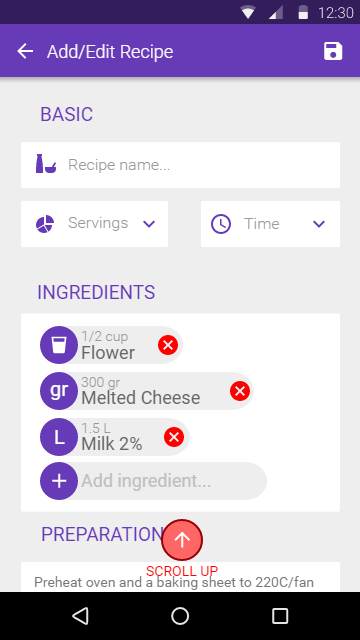
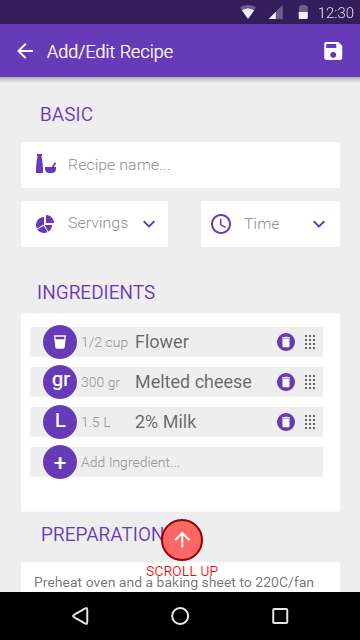
Updated some screens of Chef Buddy

Changed region(s): [[0.0917, 0.5, 0.7028, 0.7812], [0.7639, 0.5, 0.825, 0.6875]]

diff --git a/index.html b/index.html
@@ -1,2 +1,2 @@
 <html xmlns="http://www.w3.org/1999/xhtml" xmlns:p="http://www.evolus.vn/Namespace/Pencil" xmlns:html="http://www.w3.org/1999/xhtml"><head><meta http-equiv="Content-Type" content="text/html; charset=UTF-8" />
-<title>ChefBuddy v3</title><script type="text/javascript" src="Resources/Script.js"></script><link rel="stylesheet" type="text/css" href="Resources/Style.css" /><meta name="viewport" content="width=device-width, initial-scale=1, user-scalable=no, maximum-scale=1.0" /></head><body><div style="display: none;" id="page"><div id="content"><h1 id="documentTitle"><span>ChefBuddy v3</span></h1><div class="Page" id="home_recipes_page"><div class="Texts"><h2 class="Title">Home: Recipes</h2><p class="Note"></p><div>Home view. <br /><br />This page displays a list of recipes.</div><p></p></div><div class="Image"><img src="pages\home_recipes.png" width="360" height="641" usemap="#map_home_recipes" id="home_recipes_page_image" /><div class="ImageFooter"> </div><map name="map_home_recipes"><area shape="rect" coords="294.60009765625,523.6000366210938,350.60009765625,579.600036621094" href="#editadd_recipe_page" title="Go to page 'Edit/Add Recipe'" /><area shape="rect" coords="294,38,318,62" href="#home_recipes_search_page" title="Go to page 'Home: Recipes: Search'" /><area shape="rect" coords="328,38,352,62" href="#home_menu_page" title="Go to page 'Home: Menu'" /><area shape="rect" coords="0,80,360,128" href="#home_spin_wheel_page" title="Go to page 'Home: Spin wheel'" /><area shape="rect" coords="6,139,352.279998779297,352.919982910156" href="#recipe_detail_page" title="Go to page 'Recipe Detail'" /></map></div></div><div class="Page" id="home_recipes_search_page"><div class="Texts"><h2 class="Title">Home: Recipes: Search</h2><p class="Note"></p><div><div>Search page:<br /><br />A white ripple spawns from the center of where the search icon used to be, covering the Toolbar. The TabView dissapears. The app logo changes to a back arrow, "Search..." hint appears.</div><div>Keyboard is displayed. Snackbar/Toast appears saying: "Search by recipe name or ingredients"</div> </div><p></p></div><div class="Image"><img src="pages\home_recipes_search.png" width="360" height="640" usemap="#map_home_recipes_search" id="home_recipes_search_page_image" /><div class="ImageFooter"> </div><map name="map_home_recipes_search"><area shape="rect" coords="8,39,32,63" href="#home_recipes_page" title="Go to page 'Home: Recipes'" /></map></div></div><div class="Page" id="recipe_detail_page"><div class="Texts"><h2 class="Title">Recipe Detail</h2><p class="Note"></p><div> <div>Recipe detail page.<br /><br />Slides in from below, obscuring background, can be fully scrolled up.</div><div><br /><br /></div><div>Share button generates a pdf file, shareable through Whatsapp, Email.<br /><br /></div><div><br /><br /></div><div><div>Check Button hint: <span style="font-size: 9pt;">"Cooked this today". When clicked, records the recipe as it has been cooked the current day, also icon changes to an X.</span></div></div></div><p></p></div><div class="Image"><img src="pages\recipe_detail.png" width="360" height="640" usemap="#map_recipe_detail" id="recipe_detail_page_image" /><div class="ImageFooter"> </div><map name="map_recipe_detail"><area shape="rect" coords="166,526,206,566" href="#recipe_detail_2_page" title="Go to page 'Recipe Detail 2'" /><area shape="rect" coords="0,592,360,640" href="#home_recipes_page" title="Go to page 'Home: Recipes'" /><area shape="rect" coords="326,193,350,217" href="#recipe_detail_menu_page" title="Go to page 'Recipe Detail: Menu'" /><area shape="rect" coords="0,0.3052825927734375,360,172.937286376953" href="#home_recipes_page" title="Go to page 'Home: Recipes'" /></map></div></div><div class="Page" id="recipe_detail_2_page"><div class="Texts"><h2 class="Title">Recipe Detail 2</h2><p class="Note"></p><div> <div>Recipe detail page.<br /><br />Slides in from below, obscuring background, can be fully scrolled up.</div><div><br /><br /></div><div>Share button generates a pdf file, shareable through Whatsapp, Email.<br /><br /></div><div><br /><br /></div><div><div>Check Button hint: <span style="font-size: 9pt;">"Cooked this today". When clicked, records the recipe as it has been cooked the current day, also icon changes to an X.</span></div></div></div><p></p></div><div class="Image"><img src="pages\recipe_detail_2.png" width="360" height="640" usemap="#map_recipe_detail_2" id="recipe_detail_2_page_image" /><div class="ImageFooter"> </div><map name="map_recipe_detail_2"><area shape="rect" coords="171,214,211,254" href="#recipe_detail_page" title="Go to page 'Recipe Detail'" /><area shape="rect" coords="0,592,360,640" href="#recipe_detail_page" title="Go to page 'Recipe Detail'" /><area shape="rect" coords="326,44,350,68" href="#recipe_detail_menu_page" title="Go to page 'Recipe Detail: Menu'" /><area shape="rect" coords="35,299,325,429" href="#recipe_detail_view_image_page" title="Go to page 'Recipe Detail: View Image'" /></map></div></div><div class="Page" id="recipe_detail_view_image_page"><div class="Texts"><h2 class="Title">Recipe Detail: View Image</h2><p class="Note"></p><div> <div>Can zoom in/swipe right/left for next/prev image<br /><br /></div><div><br /><br /></div></div><p></p></div><div class="Image"><img src="pages\recipe_detail_view_image.png" width="360" height="640" usemap="#map_recipe_detail_view_image" id="recipe_detail_view_image_page_image" /><div class="ImageFooter"> </div><map name="map_recipe_detail_view_image"><area shape="rect" coords="0,592,360,640" href="#recipe_detail_2_page" title="Go to page 'Recipe Detail 2'" /><area shape="rect" coords="8,38,32,62" href="#recipe_detail_2_page" title="Go to page 'Recipe Detail 2'" /></map></div></div><div class="Page" id="recipe_detail_menu_page"><div class="Texts"><h2 class="Title">Recipe Detail: Menu</h2><p class="Note"></p><div> <div>Recipe detail toolbar menu.</div></div><p></p></div><div class="Image"><img src="pages\recipe_detail_menu.png" width="360" height="640" usemap="#map_recipe_detail_menu" id="recipe_detail_menu_page_image" /><div class="ImageFooter"> </div><map name="map_recipe_detail_menu"><area shape="rect" coords="235,213,342,337" href="#editadd_recipe_page" title="Go to page 'Edit/Add Recipe'" /><area shape="rect" coords="166,526,206,566" href="#recipe_detail_2_page" title="Go to page 'Recipe Detail 2'" /><area shape="rect" coords="0,592,360,640" href="#home_recipes_page" title="Go to page 'Home: Recipes'" /><area shape="rect" coords="326,193,350,217" href="#recipe_detail_menu_page" title="Go to page 'Recipe Detail: Menu'" /><area shape="rect" coords="0,0.3052825927734375,360,172.937286376953" href="#home_recipes_page" title="Go to page 'Home: Recipes'" /></map></div></div><div class="Page" id="editadd_recipe_page"><div class="Texts"><h2 class="Title">Edit/Add Recipe</h2><p class="Note"></p><div> <div>Manual recipe add/edit page.</div><div><br /><br /></div><div><div>Chipview libraries: <span style="font-size: 9pt;">https://android-arsenal.com/tag/197</span></div><div>https://github.com/pchmn/MaterialChipsInput</div></div><div><br /><br /></div><div>UI: https://cdn.dribbble.com/users/60155/</div><div>screenshots/1750767/temp_dribbble.jpg<br /><br /></div></div><p></p></div><div class="Image"><img src="pages\editadd_recipe.png" width="360" height="640" usemap="#map_editadd_recipe" id="editadd_recipe_page_image" /><div class="ImageFooter"> </div><map name="map_editadd_recipe"><area shape="rect" coords="40,462,267.216003417969,500" href="#editadd_recipe_add_ingredient_page" title="Go to page 'Edit/Add Recipe: Add Ingredient'" /><area shape="rect" coords="162,520,202,560" href="#editadd_recipe_2_page" title="Go to page 'Edit/Add Recipe 2'" /><area shape="rect" coords="13,39,37,63" href="#recipe_detail_page" title="Go to page 'Recipe Detail'" /><area shape="rect" coords="321.240234375,38.89599609375,345.240234375,62.89599609375" href="#recipe_detail_page" title="Go to page 'Recipe Detail'" /></map></div></div><div class="Page" id="editadd_recipe_add_ingredient_page"><div class="Texts"><h2 class="Title">Edit/Add Recipe: Add Ingredient</h2><p class="Note"></p><div> <div>Manual recipe add/edit page.</div><div><br /><br /></div><div><div>Chipview libraries: <span style="font-size: 9pt;">https://android-arsenal.com/tag/197</span></div><div>https://github.com/pchmn/MaterialChipsInput</div></div><div><br /><br /></div><div>UI: https://cdn.dribbble.com/users/60155/</div><div>screenshots/1750767/temp_dribbble.jpg<br /><br /></div></div><p></p></div><div class="Image"><img src="pages\editadd_recipe_add_ingredient.png" width="360" height="640" usemap="#map_editadd_recipe_add_ingredient" id="editadd_recipe_add_ingredient_page_image" /><div class="ImageFooter"> </div><map name="map_editadd_recipe_add_ingredient"><area shape="rect" coords="0,24,360,600.799987792969" href="#editadd_recipe_page" title="Go to page 'Edit/Add Recipe'" /><area shape="rect" coords="162,520,202,560" href="#editadd_recipe_2_page" title="Go to page 'Edit/Add Recipe 2'" /><area shape="rect" coords="0,592,360,640" href="#editadd_recipe_page" title="Go to page 'Edit/Add Recipe'" /><area shape="rect" coords="13,39,37,63" href="#recipe_detail_page" title="Go to page 'Recipe Detail'" /><area shape="rect" coords="321.240234375,38.89599609375,345.240234375,62.89599609375" href="#recipe_detail_page" title="Go to page 'Recipe Detail'" /></map></div></div><div class="Page" id="editadd_recipe_2_page"><div class="Texts"><h2 class="Title">Edit/Add Recipe 2</h2><p class="Note"></p><div> <div>Manual recipe add/edit page.</div><div><br /><br /></div><div><div>Chipview libraries: <span style="font-size: 9pt;">https://android-arsenal.com/tag/197</span></div><div>https://github.com/pchmn/MaterialChipsInput</div></div><div><br /><br /></div><div>UI: https://cdn.dribbble.com/users/60155/</div><div>screenshots/1750767/temp_dribbble.jpg<br /><br /></div></div><p></p></div><div class="Image"><img src="pages\editadd_recipe_2.png" width="360" height="640" usemap="#map_editadd_recipe_2" id="editadd_recipe_2_page_image" /><div class="ImageFooter"> </div><map name="map_editadd_recipe_2"><area shape="rect" coords="0,592,360,640" href="#recipe_detail_page" title="Go to page 'Recipe Detail'" /><area shape="rect" coords="160,64,200,104" href="#editadd_recipe_page" title="Go to page 'Edit/Add Recipe'" /><area shape="rect" coords="232,527,328,563" href="#editadd_recipe_add_image_page" title="Go to page 'Edit/Add Recipe: Add Image'" /><area shape="rect" coords="13,39,37,63" href="#recipe_detail_page" title="Go to page 'Recipe Detail'" /><area shape="rect" coords="321.240234375,38.89599609375,345.240234375,62.89599609375" href="#recipe_detail_page" title="Go to page 'Recipe Detail'" /></map></div></div><div class="Page" id="editadd_recipe_add_image_page"><div class="Texts"><h2 class="Title">Edit/Add Recipe: Add Image</h2><p class="Note"></p><div> <div>Select camera/gallery dialog.</div></div><p></p></div><div class="Image"><img src="pages\editadd_recipe_add_image.png" width="360" height="640" usemap="#map_editadd_recipe_add_image" id="editadd_recipe_add_image_page_image" /><div class="ImageFooter"> </div><map name="map_editadd_recipe_add_image"><area shape="rect" coords="0,24,360,600.799987792969" href="#editadd_recipe_page" title="Go to page 'Edit/Add Recipe'" /><area shape="rect" coords="13,40,37,64" href="#recipe_detail_page" title="Go to page 'Recipe Detail'" /><area shape="rect" coords="321.239990234375,38.89599609375,345.239990234375,62.89599609375" href="#recipe_detail_page" title="Go to page 'Recipe Detail'" /><area shape="rect" coords="0,592,360,640" href="#editadd_recipe_page" title="Go to page 'Edit/Add Recipe'" /></map></div></div><div class="Page" id="home_menu_page"><div class="Texts"><h2 class="Title">Home: Menu</h2><p class="Note"></p><div>App toolbar menu</div><p></p></div><div class="Image"><img src="pages\home_menu.png" width="360" height="641" usemap="#map_home_menu" id="home_menu_page_image" /><div class="ImageFooter"> </div><map name="map_home_menu"><area shape="rect" coords="173,60,341,176" href="#settings_page" title="Go to page 'Settings'" /><area shape="rect" coords="0,80,360,128" href="#home_spin_wheel_page" title="Go to page 'Home: Spin wheel'" /><area shape="rect" coords="1,1,358.640014648438,639.039978027344" href="#home_recipes_page" title="Go to page 'Home: Recipes'" /></map></div></div><div class="Page" id="home_spin_wheel_page"><div class="Texts"><h2 class="Title">Home: Spin wheel</h2><p class="Note"></p><div>This page displays a wheel containing recipes, when activated, the wheel spins and randomly selects a recipe.<br /><br />The recipes can be edited. <br /><br />Max 10 recipes. </div><p></p></div><div class="Image"><img src="pages\home_spin_wheel.png" width="360" height="647" usemap="#map_home_spin_wheel" id="home_spin_wheel_page_image" /><div class="ImageFooter"> </div><map name="map_home_spin_wheel"><area shape="rect" coords="329,237,353,261" href="#home_spinwheel_edit_page" title="Go to page 'Home: Spinwheel: Edit'" /><area shape="rect" coords="0,172,360,220" href="#home_history_page" title="Go to page 'Home: History'" /></map></div></div><div class="Page" id="home_spinwheel_edit_page"><div class="Texts"><h2 class="Title">Home: Spinwheel: Edit</h2><p class="Note"></p><div>Tapping on the Edit button opens a dialog where the recipes in the spinwheel can be set. This number should be limited to a max amount (10 recipes max?) <br /><br /><br /><br /><div>https://github.com/LukeDeighton/WheelView</div><div>https://code.tutsplus.com/tutorials/android-sdk-creating-a-rotating-dialer--mobile-8868</div></div><p></p></div><div class="Image"><img src="pages\home_spinwheel_edit.png" width="361" height="647" usemap="#map_home_spinwheel_edit" id="home_spinwheel_edit_page_image" /><div class="ImageFooter"> </div><map name="map_home_spinwheel_edit"><area shape="rect" coords="1,2,361,600" href="#home_spin_wheel_page" title="Go to page 'Home: Spin wheel'" /><area shape="rect" coords="330,237,354,261" href="#home_spinwheel_edit_page" title="Go to page 'Home: Spinwheel: Edit'" /><area shape="rect" coords="1,172,361,220" href="#home_history_page" title="Go to page 'Home: History'" /></map></div></div><div class="Page" id="home_history_page"><div class="Texts"><h2 class="Title">Home: History</h2><p class="Note"></p><div>This page displays a calendar which shows the recipes made each day.<div><br /><br /><div>CALENDAR: https://www.prolificinteractive.com/2015/02/17/material-calendarview/</div><div>https://github.com/prolificinteractive/material-calendarview</div><div><br /><br /></div><div>NOTE: Calendar card background should be white #FFF</div></div></div><p></p></div><div class="Image"><img src="pages\home_history.png" width="360" height="647" usemap="#map_home_history" id="home_history_page_image" /><div class="ImageFooter"> </div><map name="map_home_history"><area shape="rect" coords="210,336,258,384" href="#home_history_day_detail_page" title="Go to page 'Home: History: Day detail'" /><area shape="rect" coords="158,336,206,384" href="#home_history_set_recipe_page" title="Go to page 'Home: History: Set Recipe'" /><area shape="rect" coords="0,172,360,220" href="#home_recipes_page" title="Go to page 'Home: Recipes'" /></map></div></div><div class="Page" id="home_history_day_detail_page"><div class="Texts"><h2 class="Title">Home: History: Day detail</h2><p class="Note"></p><div>Tapping on a day when a recipe had been cooked. Circular expansion animation occurs, image should be blurry.. or with a frosted-like effect?</div><p></p></div><div class="Image"><img src="pages\home_history_day_detail.png" width="360" height="647" usemap="#map_home_history_day_detail" id="home_history_day_detail_page_image" /><div class="ImageFooter"> </div><map name="map_home_history_day_detail"><area shape="rect" coords="0,599,360,647" href="#home_history_page" title="Go to page 'Home: History'" /><area shape="rect" coords="291,285,315,309" href="#home_history_set_recipe_page" title="Go to page 'Home: History: Set Recipe'" /><area shape="rect" coords="210,336,258,384" href="#home_history_day_detail_page" title="Go to page 'Home: History: Day detail'" /><area shape="rect" coords="158,336,206,384" href="#home_history_set_recipe_page" title="Go to page 'Home: History: Set Recipe'" /><area shape="rect" coords="0,172,360,220" href="#home_recipes_page" title="Go to page 'Home: Recipes'" /><area shape="rect" coords="0,0,360,220" href="#home_history_page" title="Go to page 'Home: History'" /><area shape="rect" coords="1,1,358.640014648438,639.039978027344" href="#home_history_page" title="Go to page 'Home: History'" /></map></div></div><div class="Page" id="home_history_set_recipe_page"><div class="Texts"><h2 class="Title">Home: History: Set Recipe</h2><p class="Note"></p><div>Set/Edit a Recipe on a specific day</div><p></p></div><div class="Image"><img src="pages\home_history_set_recipe.png" width="360" height="647" usemap="#map_home_history_set_recipe" id="home_history_set_recipe_page_image" /><div class="ImageFooter"> </div><map name="map_home_history_set_recipe"><area shape="rect" coords="0,599,360,647" href="#home_history_page" title="Go to page 'Home: History'" /><area shape="rect" coords="0,0,360,611.799987792969" href="#home_history_page" title="Go to page 'Home: History'" /><area shape="rect" coords="210,336,258,384" href="#home_history_day_detail_page" title="Go to page 'Home: History: Day detail'" /><area shape="rect" coords="158,336,206,384" href="#home_history_set_recipe_page" title="Go to page 'Home: History: Set Recipe'" /><area shape="rect" coords="0,172,360,220" href="#home_recipes_page" title="Go to page 'Home: Recipes'" /></map></div></div><div class="Page" id="settings_page"><div class="Texts"><h2 class="Title">Settings</h2><p class="Note"></p><div>Cheff Buddy Settings page</div><p></p></div><div class="Image"><img src="pages\settings.png" width="360" height="641" usemap="#map_settings" id="settings_page_image" /><div class="ImageFooter"> </div><map name="map_settings"><area shape="rect" coords="16,41,40,65" href="#home_recipes_page" title="Go to page 'Home: Recipes'" /><area shape="rect" coords="16,98.921875,207,120.921875" href="#settings_backup_page" title="Go to page 'Settings: Backup'" /><area shape="rect" coords="0,592.921875,360,640.921875" href="#home_recipes_page" title="Go to page 'Home: Recipes'" /></map></div></div><div class="Page" id="settings_backup_page"><div class="Texts"><h2 class="Title">Settings: Backup</h2><p class="Note"></p><div>Settings for backing up app data.<div><br /><br /></div><div>Local backups will occur daily.<br /><br />Google drive cloud-based backups can be configured -off by default- to occur daily, weekly or monthly.<br /><br />Google drive backups can be set to occur only over Wi-Fi.</div></div><p></p></div><div class="Image"><img src="pages\settings_backup.png" width="360" height="644" usemap="#map_settings_backup" id="settings_backup_page_image" /><div class="ImageFooter"> </div><map name="map_settings_backup"><area shape="rect" coords="15,40,39,64" href="#settings_page" title="Go to page 'Settings'" /><area shape="rect" coords="0,595.921875,360,643.921875" href="#settings_page" title="Go to page 'Settings'" /></map></div></div><div id="navigator"><div class="NavLink" id="prevLink"><div class="Wrapper"><a href="#"> </a></div></div><div class="NavLink NavNextLink" id="nextLink"><div class="Wrapper"><a href="#"> </a></div></div></div></div><div id="footer"></div></div></body></html>
+<title>ChefBuddy v3</title><script type="text/javascript" src="Resources/Script.js"></script><link rel="stylesheet" type="text/css" href="Resources/Style.css" /><meta name="viewport" content="width=device-width, initial-scale=1, user-scalable=no, maximum-scale=1.0" /></head><body><div style="display: none;" id="page"><div id="content"><h1 id="documentTitle"><span>ChefBuddy v3</span></h1><div class="Page" id="home_recipes_page"><div class="Texts"><h2 class="Title">Home: Recipes</h2><p class="Note"></p><div>Home view. <br /><br />This page displays a list of recipes.</div><p></p></div><div class="Image"><img src="pages\home_recipes.png" width="360" height="641" usemap="#map_home_recipes" id="home_recipes_page_image" /><div class="ImageFooter"> </div><map name="map_home_recipes"><area shape="rect" coords="294.60009765625,523.6000366210938,350.60009765625,579.600036621094" href="#editadd_recipe_page" title="Go to page 'Edit/Add Recipe'" /><area shape="rect" coords="294,38,318,62" href="#home_recipes_search_page" title="Go to page 'Home: Recipes: Search'" /><area shape="rect" coords="328,38,352,62" href="#home_menu_page" title="Go to page 'Home: Menu'" /><area shape="rect" coords="0,80,360,128" href="#home_spin_wheel_page" title="Go to page 'Home: Spin wheel'" /><area shape="rect" coords="6,139,352.279998779297,352.919982910156" href="#recipe_detail_page" title="Go to page 'Recipe Detail'" /></map></div></div><div class="Page" id="home_recipes_search_page"><div class="Texts"><h2 class="Title">Home: Recipes: Search</h2><p class="Note"></p><div><div>Search page:<br /><br />A white ripple spawns from the center of where the search icon used to be, covering the Toolbar. The TabView dissapears. The app logo changes to a back arrow, "Search..." hint appears.</div><div>Keyboard is displayed. Snackbar/Toast appears saying: "Search by recipe name or ingredients"</div> </div><p></p></div><div class="Image"><img src="pages\home_recipes_search.png" width="360" height="640" usemap="#map_home_recipes_search" id="home_recipes_search_page_image" /><div class="ImageFooter"> </div><map name="map_home_recipes_search"><area shape="rect" coords="8,39,32,63" href="#home_recipes_page" title="Go to page 'Home: Recipes'" /></map></div></div><div class="Page" id="editadd_recipe_page"><div class="Texts"><h2 class="Title">Edit/Add Recipe</h2><p class="Note"></p><div> <div>Manual recipe add/edit page.</div><div><br /><br /></div><div><div>Chipview libraries: <span style="font-size: 9pt;">https://android-arsenal.com/tag/197</span></div><div>https://github.com/pchmn/MaterialChipsInput</div></div><div><br /><br /></div><div>UI: https://cdn.dribbble.com/users/60155/</div><div>screenshots/1750767/temp_dribbble.jpg<br /><br /></div></div><p></p></div><div class="Image"><img src="pages\editadd_recipe.png" width="360" height="640" usemap="#map_editadd_recipe" id="editadd_recipe_page_image" /><div class="ImageFooter"> </div><map name="map_editadd_recipe"><area shape="rect" coords="162,520,202,560" href="#editadd_recipe_2_page" title="Go to page 'Edit/Add Recipe 2'" /><area shape="rect" coords="13,39,37,63" href="#recipe_detail_page" title="Go to page 'Recipe Detail'" /><area shape="rect" coords="321.240234375,38.89599609375,345.240234375,62.89599609375" href="#recipe_detail_page" title="Go to page 'Recipe Detail'" /></map></div></div><div class="Page" id="recipe_detail_page"><div class="Texts"><h2 class="Title">Recipe Detail</h2><p class="Note"></p><div> <div>Recipe detail page.<br /><br />Slides in from below, obscuring background, can be fully scrolled up.</div><div><br /><br /></div><div>Share button generates a pdf file, shareable through Whatsapp, Email.<br /><br /></div><div><br /><br /></div><div><div>Check Button hint: <span style="font-size: 9pt;">"Cooked this today". When clicked, records the recipe as it has been cooked the current day, also icon changes to an X.</span></div></div></div><p></p></div><div class="Image"><img src="pages\recipe_detail.png" width="360" height="640" usemap="#map_recipe_detail" id="recipe_detail_page_image" /><div class="ImageFooter"> </div><map name="map_recipe_detail"><area shape="rect" coords="166,526,206,566" href="#recipe_detail_2_page" title="Go to page 'Recipe Detail 2'" /><area shape="rect" coords="0,592,360,640" href="#home_recipes_page" title="Go to page 'Home: Recipes'" /><area shape="rect" coords="326,193,350,217" href="#recipe_detail_menu_page" title="Go to page 'Recipe Detail: Menu'" /><area shape="rect" coords="0,0.3052825927734375,360,172.937286376953" href="#home_recipes_page" title="Go to page 'Home: Recipes'" /></map></div></div><div class="Page" id="recipe_detail_view_image_page"><div class="Texts"><h2 class="Title">Recipe Detail: View Image</h2><p class="Note"></p><div> <div>Can zoom in/swipe right/left for next/prev image<br /><br /></div><div><br /><br /></div></div><p></p></div><div class="Image"><img src="pages\recipe_detail_view_image.png" width="360" height="640" usemap="#map_recipe_detail_view_image" id="recipe_detail_view_image_page_image" /><div class="ImageFooter"> </div><map name="map_recipe_detail_view_image"><area shape="rect" coords="0,592,360,640" href="#recipe_detail_2_page" title="Go to page 'Recipe Detail 2'" /><area shape="rect" coords="8,38,32,62" href="#recipe_detail_2_page" title="Go to page 'Recipe Detail 2'" /></map></div></div><div class="Page" id="recipe_detail_menu_page"><div class="Texts"><h2 class="Title">Recipe Detail: Menu</h2><p class="Note"></p><div> <div>Recipe detail toolbar menu.</div></div><p></p></div><div class="Image"><img src="pages\recipe_detail_menu.png" width="360" height="640" usemap="#map_recipe_detail_menu" id="recipe_detail_menu_page_image" /><div class="ImageFooter"> </div><map name="map_recipe_detail_menu"><area shape="rect" coords="235,213,342,337" href="#editadd_recipe_page" title="Go to page 'Edit/Add Recipe'" /><area shape="rect" coords="166,526,206,566" href="#recipe_detail_2_page" title="Go to page 'Recipe Detail 2'" /><area shape="rect" coords="0,592,360,640" href="#home_recipes_page" title="Go to page 'Home: Recipes'" /><area shape="rect" coords="326,193,350,217" href="#recipe_detail_menu_page" title="Go to page 'Recipe Detail: Menu'" /><area shape="rect" coords="0,0.3052825927734375,360,172.937286376953" href="#home_recipes_page" title="Go to page 'Home: Recipes'" /></map></div></div><div class="Page" id="editadd_recipe_add_image_page"><div class="Texts"><h2 class="Title">Edit/Add Recipe: Add Image</h2><p class="Note"></p><div> <div>Select camera/gallery dialog.</div></div><p></p></div><div class="Image"><img src="pages\editadd_recipe_add_image.png" width="360" height="640" usemap="#map_editadd_recipe_add_image" id="editadd_recipe_add_image_page_image" /><div class="ImageFooter"> </div><map name="map_editadd_recipe_add_image"><area shape="rect" coords="0,24,360,600.799987792969" href="#editadd_recipe_page" title="Go to page 'Edit/Add Recipe'" /><area shape="rect" coords="13,40,37,64" href="#recipe_detail_page" title="Go to page 'Recipe Detail'" /><area shape="rect" coords="321.239990234375,38.89599609375,345.239990234375,62.89599609375" href="#recipe_detail_page" title="Go to page 'Recipe Detail'" /><area shape="rect" coords="0,592,360,640" href="#editadd_recipe_page" title="Go to page 'Edit/Add Recipe'" /></map></div></div><div class="Page" id="recipe_detail_2_page"><div class="Texts"><h2 class="Title">Recipe Detail 2</h2><p class="Note"></p><div> <div>Recipe detail page.<br /><br />Slides in from below, obscuring background, can be fully scrolled up.</div><div><br /><br /></div><div>Share button generates a pdf file, shareable through Whatsapp, Email.<br /><br /></div><div><br /><br /></div><div><div>Check Button hint: <span style="font-size: 9pt;">"Cooked this today". When clicked, records the recipe as it has been cooked the current day, also icon changes to an X.</span></div></div></div><p></p></div><div class="Image"><img src="pages\recipe_detail_2.png" width="360" height="640" usemap="#map_recipe_detail_2" id="recipe_detail_2_page_image" /><div class="ImageFooter"> </div><map name="map_recipe_detail_2"><area shape="rect" coords="171,214,211,254" href="#recipe_detail_page" title="Go to page 'Recipe Detail'" /><area shape="rect" coords="0,592,360,640" href="#recipe_detail_page" title="Go to page 'Recipe Detail'" /><area shape="rect" coords="326,44,350,68" href="#recipe_detail_menu_page" title="Go to page 'Recipe Detail: Menu'" /><area shape="rect" coords="35,299,325,429" href="#recipe_detail_view_image_page" title="Go to page 'Recipe Detail: View Image'" /></map></div></div><div class="Page" id="editadd_recipe_2_page"><div class="Texts"><h2 class="Title">Edit/Add Recipe 2</h2><p class="Note"></p><div> <div>Manual recipe add/edit page.</div><div><br /><br /></div><div><div>Chipview libraries: <span style="font-size: 9pt;">https://android-arsenal.com/tag/197</span></div><div>https://github.com/pchmn/MaterialChipsInput</div></div><div><br /><br /></div><div>UI: https://cdn.dribbble.com/users/60155/</div><div>screenshots/1750767/temp_dribbble.jpg<br /><br /></div></div><p></p></div><div class="Image"><img src="pages\editadd_recipe_2.png" width="360" height="640" usemap="#map_editadd_recipe_2" id="editadd_recipe_2_page_image" /><div class="ImageFooter"> </div><map name="map_editadd_recipe_2"><area shape="rect" coords="0,592,360,640" href="#recipe_detail_page" title="Go to page 'Recipe Detail'" /><area shape="rect" coords="160,64,200,104" href="#editadd_recipe_page" title="Go to page 'Edit/Add Recipe'" /><area shape="rect" coords="232,527,328,563" href="#editadd_recipe_add_image_page" title="Go to page 'Edit/Add Recipe: Add Image'" /><area shape="rect" coords="13,39,37,63" href="#recipe_detail_page" title="Go to page 'Recipe Detail'" /><area shape="rect" coords="321.240234375,38.89599609375,345.240234375,62.89599609375" href="#recipe_detail_page" title="Go to page 'Recipe Detail'" /></map></div></div><div class="Page" id="editadd_recipe_add_ingredient_page"><div class="Texts"><h2 class="Title">Edit/Add Recipe: Add Ingredient</h2><p class="Note"></p><div> <div>Manual recipe add/edit page.</div><div><br /><br /></div><div><div>Chipview libraries: <span style="font-size: 9pt;">https://android-arsenal.com/tag/197</span></div><div>https://github.com/pchmn/MaterialChipsInput</div></div><div><br /><br /></div><div>UI: https://cdn.dribbble.com/users/60155/</div><div>screenshots/1750767/temp_dribbble.jpg<br /><br /></div></div><p></p></div><div class="Image"><img src="pages\editadd_recipe_add_ingredient.png" width="360" height="640" usemap="#map_editadd_recipe_add_ingredient" id="editadd_recipe_add_ingredient_page_image" /><div class="ImageFooter"> </div><map name="map_editadd_recipe_add_ingredient"><area shape="rect" coords="0,24,360,600.799987792969" href="#editadd_recipe_page" title="Go to page 'Edit/Add Recipe'" /><area shape="rect" coords="162,520,202,560" href="#editadd_recipe_2_page" title="Go to page 'Edit/Add Recipe 2'" /><area shape="rect" coords="0,592,360,640" href="#editadd_recipe_page" title="Go to page 'Edit/Add Recipe'" /><area shape="rect" coords="13,39,37,63" href="#recipe_detail_page" title="Go to page 'Recipe Detail'" /><area shape="rect" coords="321.240234375,38.89599609375,345.240234375,62.89599609375" href="#recipe_detail_page" title="Go to page 'Recipe Detail'" /></map></div></div><div class="Page" id="home_menu_page"><div class="Texts"><h2 class="Title">Home: Menu</h2><p class="Note"></p><div>App toolbar menu</div><p></p></div><div class="Image"><img src="pages\home_menu.png" width="360" height="641" usemap="#map_home_menu" id="home_menu_page_image" /><div class="ImageFooter"> </div><map name="map_home_menu"><area shape="rect" coords="173,60,341,176" href="#settings_page" title="Go to page 'Settings'" /><area shape="rect" coords="0,80,360,128" href="#home_spin_wheel_page" title="Go to page 'Home: Spin wheel'" /><area shape="rect" coords="1,1,358.640014648438,639.039978027344" href="#home_recipes_page" title="Go to page 'Home: Recipes'" /></map></div></div><div class="Page" id="home_spin_wheel_page"><div class="Texts"><h2 class="Title">Home: Spin wheel</h2><p class="Note"></p><div>This page displays a wheel containing recipes, when activated, the wheel spins and randomly selects a recipe.<br /><br />The recipes can be edited. <br /><br />Max 10 recipes. </div><p></p></div><div class="Image"><img src="pages\home_spin_wheel.png" width="360" height="647" usemap="#map_home_spin_wheel" id="home_spin_wheel_page_image" /><div class="ImageFooter"> </div><map name="map_home_spin_wheel"><area shape="rect" coords="329,237,353,261" href="#home_spinwheel_edit_page" title="Go to page 'Home: Spinwheel: Edit'" /><area shape="rect" coords="0,172,360,220" href="#home_history_page" title="Go to page 'Home: History'" /></map></div></div><div class="Page" id="home_spinwheel_edit_page"><div class="Texts"><h2 class="Title">Home: Spinwheel: Edit</h2><p class="Note"></p><div>Tapping on the Edit button opens a dialog where the recipes in the spinwheel can be set. This number should be limited to a max amount (10 recipes max?) <br /><br /><br /><br /><div>https://github.com/LukeDeighton/WheelView</div><div>https://code.tutsplus.com/tutorials/android-sdk-creating-a-rotating-dialer--mobile-8868</div></div><p></p></div><div class="Image"><img src="pages\home_spinwheel_edit.png" width="361" height="647" usemap="#map_home_spinwheel_edit" id="home_spinwheel_edit_page_image" /><div class="ImageFooter"> </div><map name="map_home_spinwheel_edit"><area shape="rect" coords="1,2,361,600" href="#home_spin_wheel_page" title="Go to page 'Home: Spin wheel'" /><area shape="rect" coords="330,237,354,261" href="#home_spinwheel_edit_page" title="Go to page 'Home: Spinwheel: Edit'" /><area shape="rect" coords="1,172,361,220" href="#home_history_page" title="Go to page 'Home: History'" /></map></div></div><div class="Page" id="home_history_page"><div class="Texts"><h2 class="Title">Home: History</h2><p class="Note"></p><div>This page displays a calendar which shows the recipes made each day.<div><br /><br /><div>CALENDAR: https://www.prolificinteractive.com/2015/02/17/material-calendarview/</div><div>https://github.com/prolificinteractive/material-calendarview</div><div><br /><br /></div><div>NOTE: Calendar card background should be white #FFF</div></div></div><p></p></div><div class="Image"><img src="pages\home_history.png" width="360" height="647" usemap="#map_home_history" id="home_history_page_image" /><div class="ImageFooter"> </div><map name="map_home_history"><area shape="rect" coords="210,336,258,384" href="#home_history_day_detail_page" title="Go to page 'Home: History: Day detail'" /><area shape="rect" coords="158,336,206,384" href="#home_history_set_recipe_page" title="Go to page 'Home: History: Set Recipe'" /><area shape="rect" coords="0,172,360,220" href="#home_recipes_page" title="Go to page 'Home: Recipes'" /></map></div></div><div class="Page" id="home_history_day_detail_page"><div class="Texts"><h2 class="Title">Home: History: Day detail</h2><p class="Note"></p><div>Tapping on a day when a recipe had been cooked. Circular expansion animation occurs, image should be blurry.. or with a frosted-like effect?</div><p></p></div><div class="Image"><img src="pages\home_history_day_detail.png" width="360" height="647" usemap="#map_home_history_day_detail" id="home_history_day_detail_page_image" /><div class="ImageFooter"> </div><map name="map_home_history_day_detail"><area shape="rect" coords="0,599,360,647" href="#home_history_page" title="Go to page 'Home: History'" /><area shape="rect" coords="291,285,315,309" href="#home_history_set_recipe_page" title="Go to page 'Home: History: Set Recipe'" /><area shape="rect" coords="210,336,258,384" href="#home_history_day_detail_page" title="Go to page 'Home: History: Day detail'" /><area shape="rect" coords="158,336,206,384" href="#home_history_set_recipe_page" title="Go to page 'Home: History: Set Recipe'" /><area shape="rect" coords="0,172,360,220" href="#home_recipes_page" title="Go to page 'Home: Recipes'" /><area shape="rect" coords="0,0,360,220" href="#home_history_page" title="Go to page 'Home: History'" /><area shape="rect" coords="1,1,358.640014648438,639.039978027344" href="#home_history_page" title="Go to page 'Home: History'" /></map></div></div><div class="Page" id="home_history_set_recipe_page"><div class="Texts"><h2 class="Title">Home: History: Set Recipe</h2><p class="Note"></p><div>Set/Edit a Recipe on a specific day</div><p></p></div><div class="Image"><img src="pages\home_history_set_recipe.png" width="360" height="647" usemap="#map_home_history_set_recipe" id="home_history_set_recipe_page_image" /><div class="ImageFooter"> </div><map name="map_home_history_set_recipe"><area shape="rect" coords="0,599,360,647" href="#home_history_page" title="Go to page 'Home: History'" /><area shape="rect" coords="0,0,360,611.799987792969" href="#home_history_page" title="Go to page 'Home: History'" /><area shape="rect" coords="210,336,258,384" href="#home_history_day_detail_page" title="Go to page 'Home: History: Day detail'" /><area shape="rect" coords="158,336,206,384" href="#home_history_set_recipe_page" title="Go to page 'Home: History: Set Recipe'" /><area shape="rect" coords="0,172,360,220" href="#home_recipes_page" title="Go to page 'Home: Recipes'" /></map></div></div><div class="Page" id="settings_page"><div class="Texts"><h2 class="Title">Settings</h2><p class="Note"></p><div>Cheff Buddy Settings page</div><p></p></div><div class="Image"><img src="pages\settings.png" width="360" height="641" usemap="#map_settings" id="settings_page_image" /><div class="ImageFooter"> </div><map name="map_settings"><area shape="rect" coords="16,41,40,65" href="#home_recipes_page" title="Go to page 'Home: Recipes'" /><area shape="rect" coords="16,98.921875,207,120.921875" href="#settings_backup_page" title="Go to page 'Settings: Backup'" /><area shape="rect" coords="0,592.921875,360,640.921875" href="#home_recipes_page" title="Go to page 'Home: Recipes'" /></map></div></div><div class="Page" id="settings_backup_page"><div class="Texts"><h2 class="Title">Settings: Backup</h2><p class="Note"></p><div>Settings for backing up app data.<div><br /><br /></div><div>Local backups will occur daily.<br /><br />Google drive cloud-based backups can be configured -off by default- to occur daily, weekly or monthly.<br /><br />Google drive backups can be set to occur only over Wi-Fi.</div></div><p></p></div><div class="Image"><img src="pages\settings_backup.png" width="360" height="644" usemap="#map_settings_backup" id="settings_backup_page_image" /><div class="ImageFooter"> </div><map name="map_settings_backup"><area shape="rect" coords="15,40,39,64" href="#settings_page" title="Go to page 'Settings'" /><area shape="rect" coords="0,595.921875,360,643.921875" href="#settings_page" title="Go to page 'Settings'" /></map></div></div><div id="navigator"><div class="NavLink" id="prevLink"><div class="Wrapper"><a href="#"> </a></div></div><div class="NavLink NavNextLink" id="nextLink"><div class="Wrapper"><a href="#"> </a></div></div></div></div><div id="footer"></div></div></body></html>
